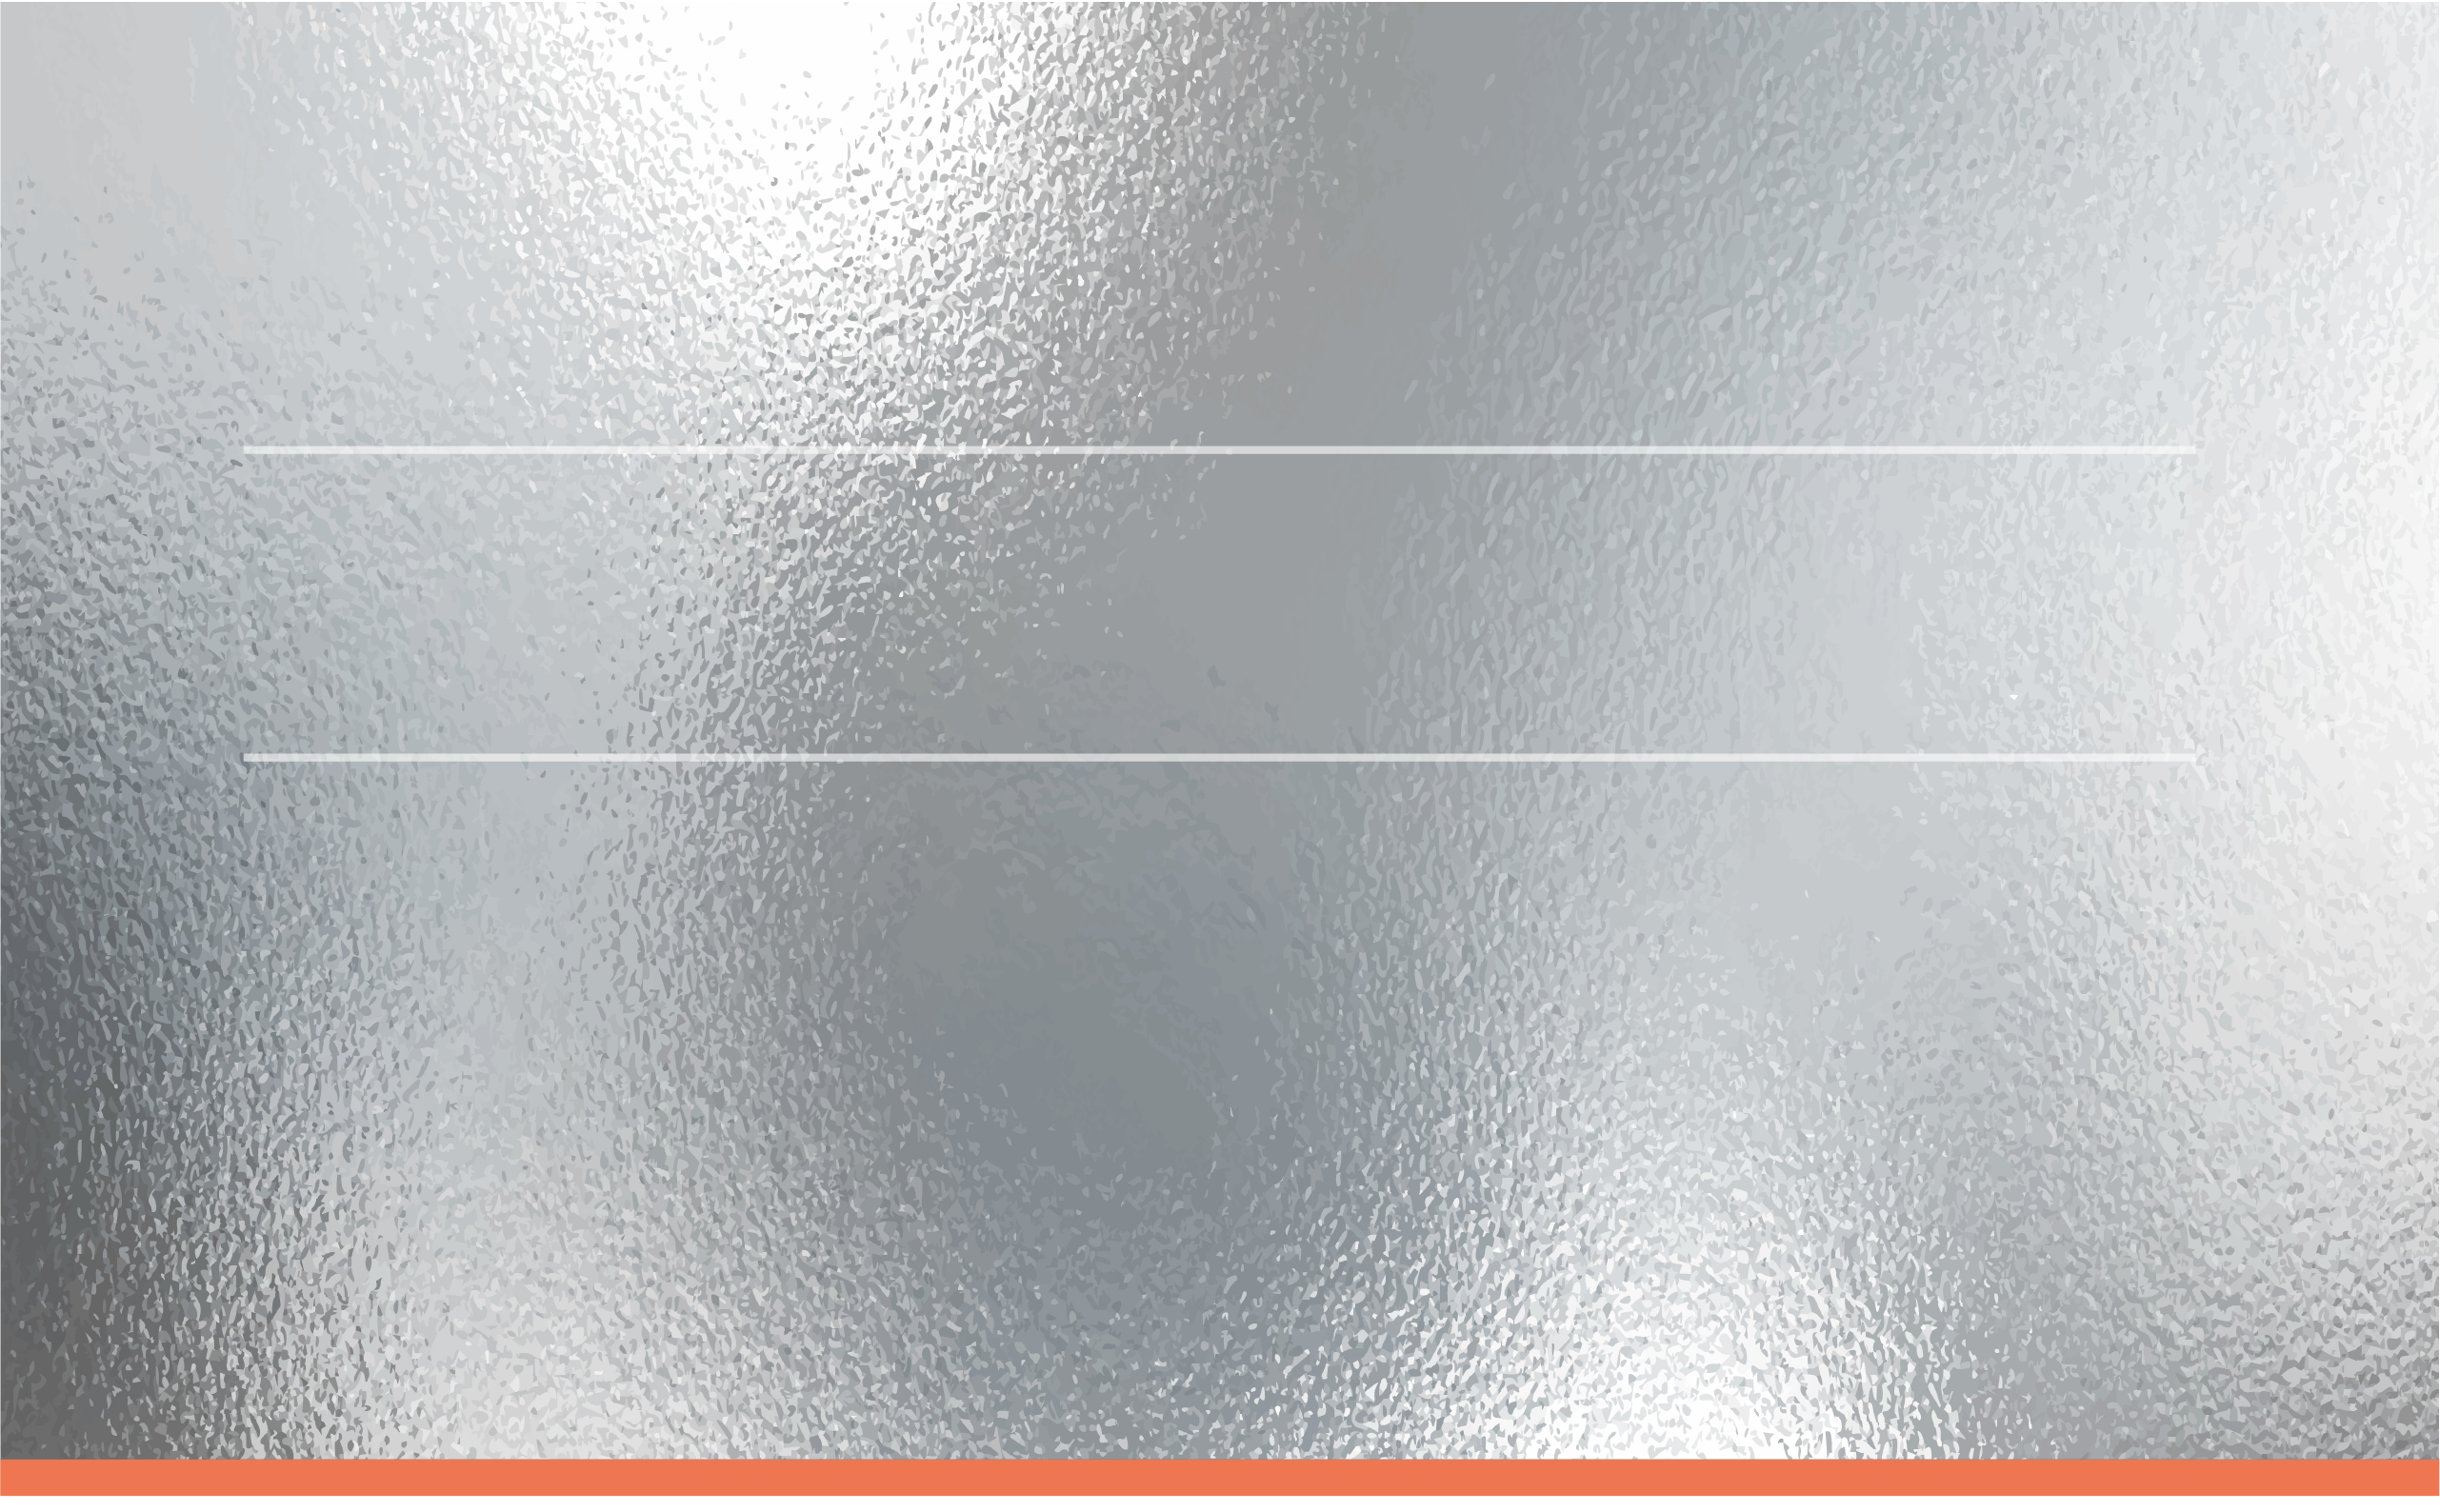
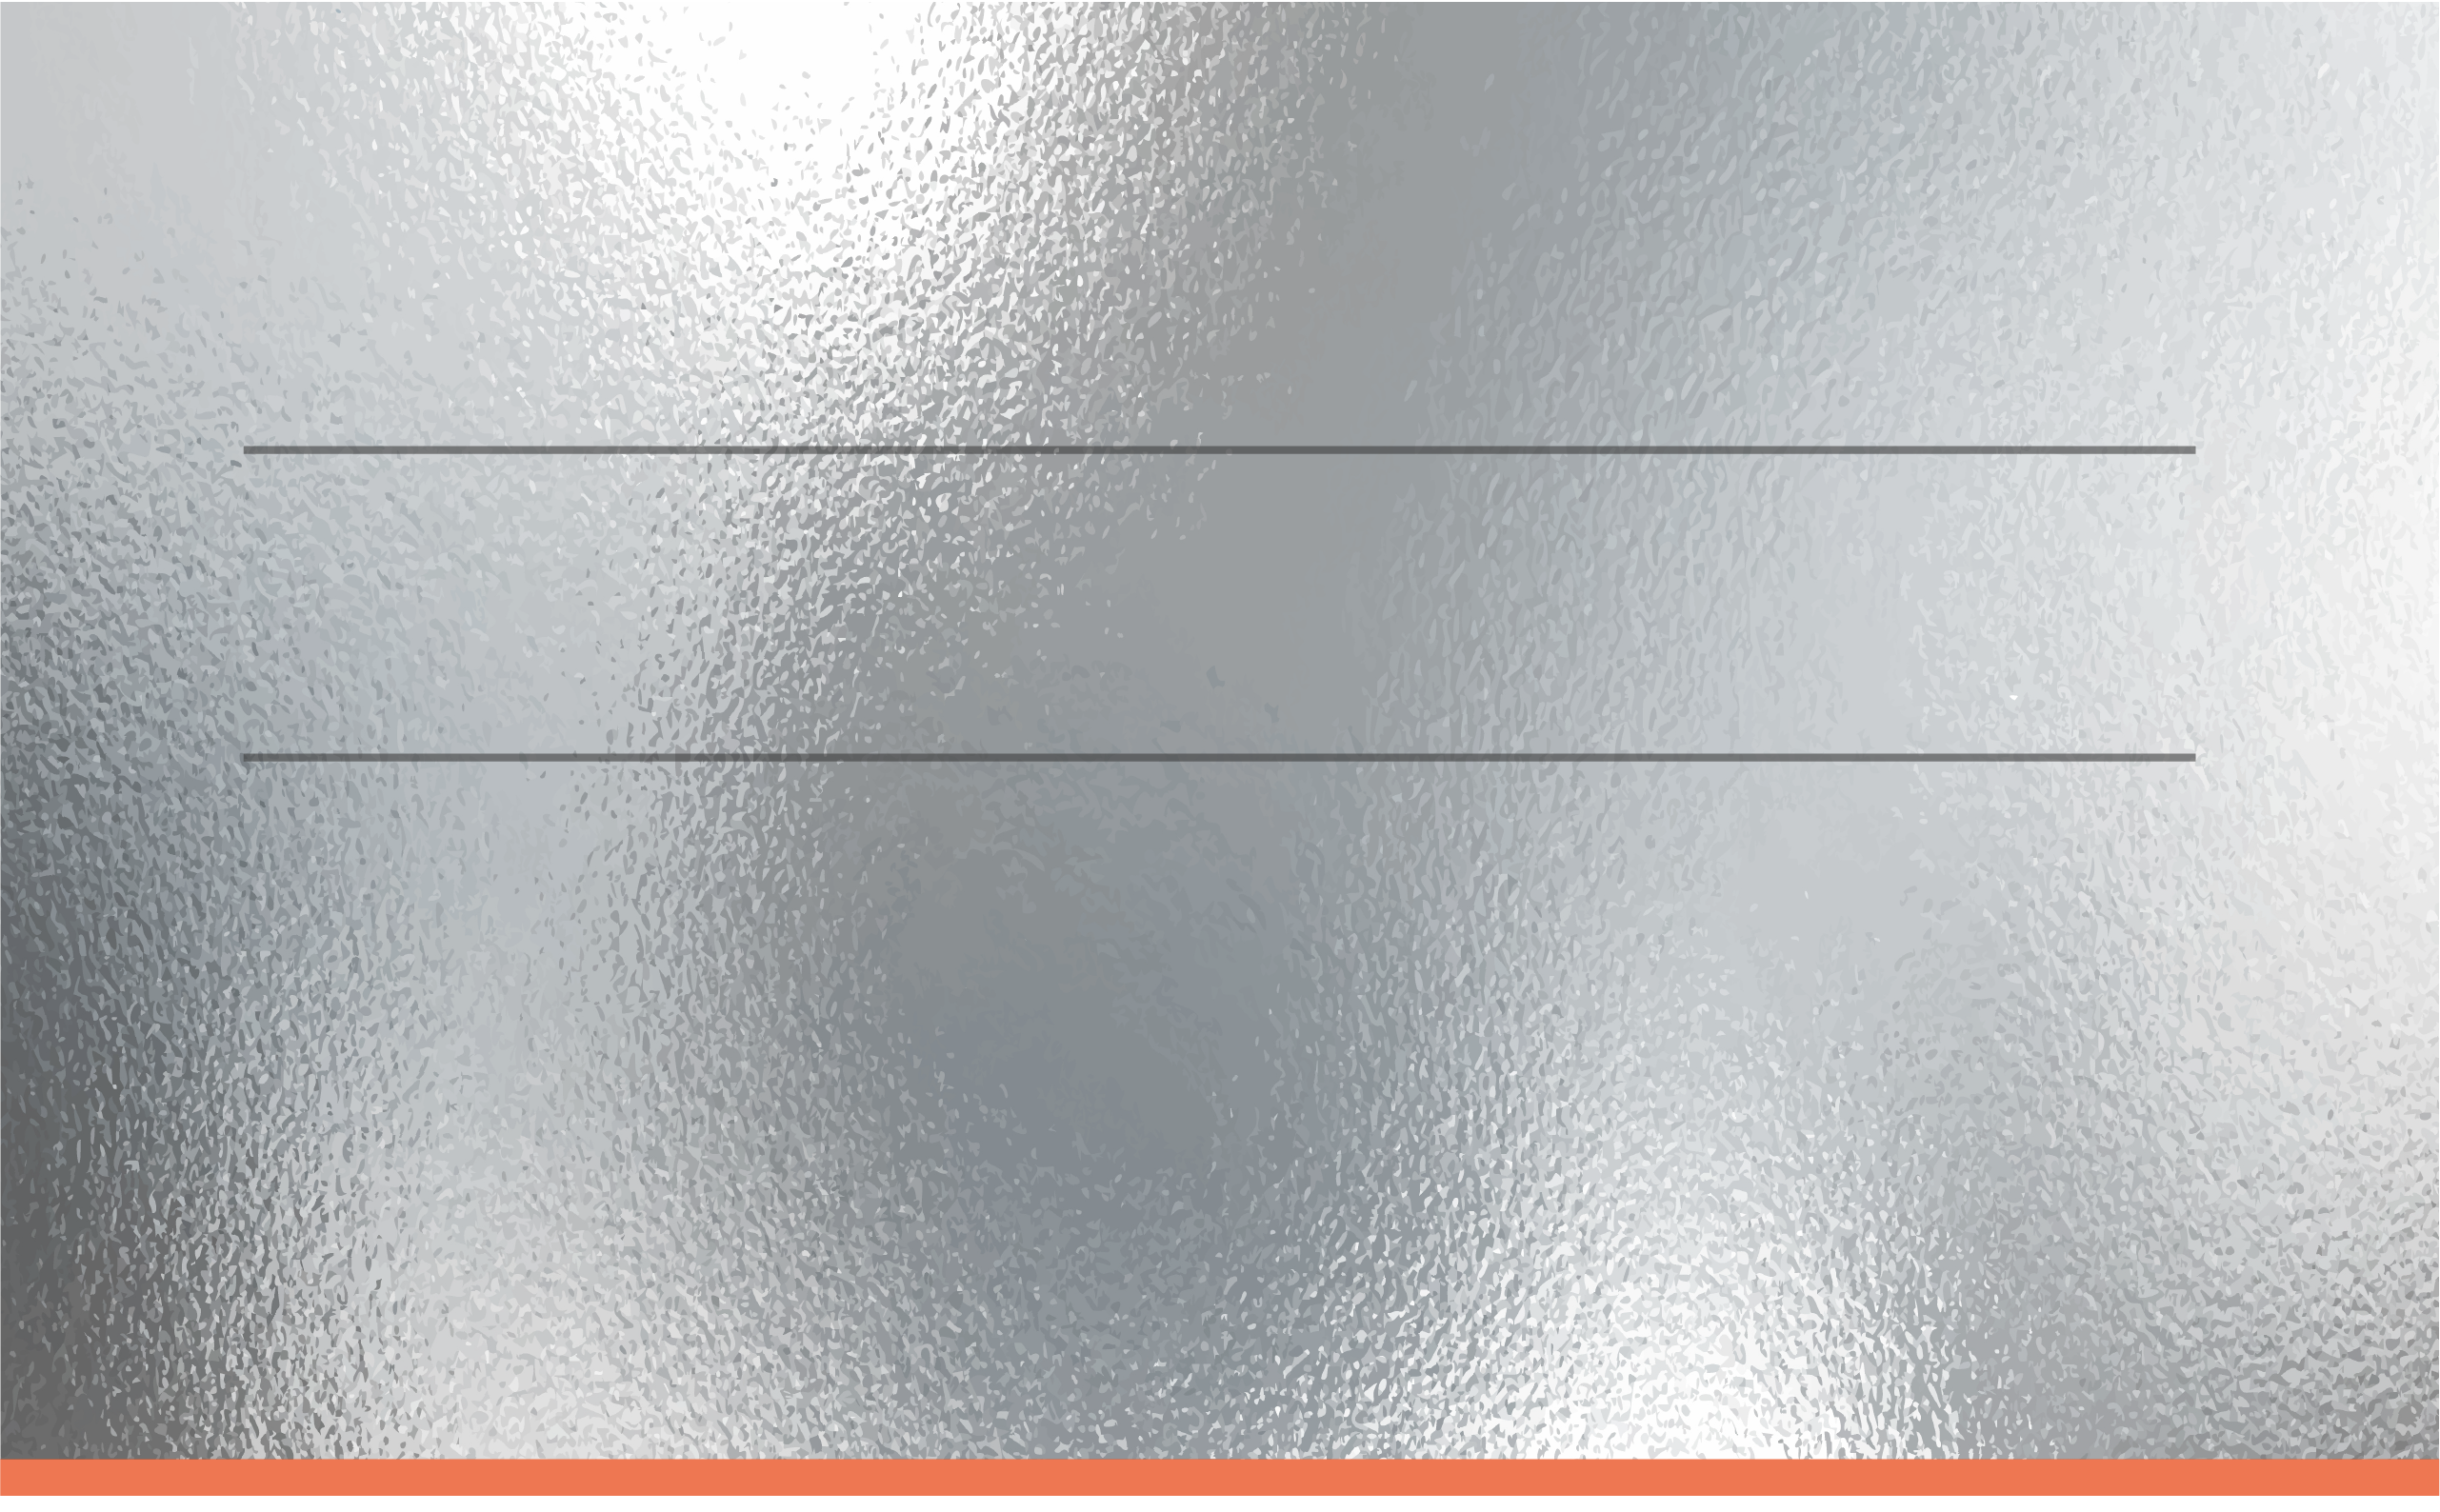
수정2

diff --git a/storage.css b/storage.css
@@ -270,3 +270,118 @@ body {
     transform: translateY(0);
   }
 }
+/* 카드가 해체되기 직전 */
+.card-inner.breaking {
+  animation: breakPackage 0.35s ease;
+}
+
+@keyframes breakPackage {
+  0% {
+    transform: scale(1) rotate(0deg);
+    filter: blur(0);
+  }
+
+  20% {
+    transform: translateX(-2px) rotate(-1deg);
+  }
+
+  40% {
+    transform: translateX(2px) rotate(1deg);
+  }
+
+  60% {
+    transform: scale(0.97);
+    filter: blur(1px);
+  }
+
+  100% {
+    transform: scale(1);
+    filter: blur(0);
+  }
+}
+
+/* 포장 파편 */
+.card-front::after {
+  content: "";
+  position: absolute;
+  inset: 0;
+  pointer-events: none;
+  opacity: 0;
+}
+
+.card-inner.breaking .card-front::after {
+  animation: packageDust 0.4s ease forwards;
+}
+
+@keyframes packageDust {
+  0% {
+    opacity: 0;
+    transform: scale(1);
+  }
+
+  30% {
+    opacity: 0.8;
+    transform: scale(1.02);
+  }
+
+  100% {
+    opacity: 0;
+    transform: scale(1.08);
+  }
+}
+.card-inner.breaking {
+  animation: breakPackage 0.45s cubic-bezier(0.2, 0.9, 0.2, 1);
+}
+
+@keyframes breakPackage {
+  0% {
+    transform: scale(1) rotate(0deg);
+    filter: blur(0);
+  }
+
+  10% {
+    transform: translate(-8px, 4px) rotate(-4deg);
+  }
+
+  20% {
+    transform: translate(8px, -4px) rotate(4deg);
+  }
+
+  35% {
+    transform: translate(-6px, 2px) rotate(-3deg);
+  }
+
+  55% {
+    transform: scale(0.9);
+    filter: blur(3px);
+  }
+
+  100% {
+    transform: scale(1);
+    filter: blur(0);
+  }
+}
+.card-front::before {
+  content: "";
+  position: absolute;
+  inset: 0;
+  background: white;
+  opacity: 0;
+  pointer-events: none;
+}
+
+.card-inner.breaking .card-front::before {
+  animation: flash 0.18s;
+}
+
+@keyframes flash {
+  0% {
+    opacity: 0;
+  }
+  50% {
+    opacity: 0.9;
+  }
+  100% {
+    opacity: 0;
+  }
+}

diff --git a/storage.js b/storage.js
@@ -178,9 +178,21 @@ function openBox(box, item) {
     card.classList.add("drop");
     front.style.backgroundImage = `url(${cardFrontImages[item.style]})`;
     back.style.backgroundImage = 'url("images/card2.png")';
-    text.innerHTML = item.text.replace(/\n/g, "<br>");
+    if (item.style === "진공팩") {
+      text.style.color = "#000000"; // 앞면(포장된 문장)
+    } else {
+      text.style.color = "#482c23"; // 기본 색
+    }
+    if (item.style === "보자기") {
+      text.style.color = "#fefefe"; // 앞면(포장된 문장)
+    } else {
+      text.style.color = "#482c23"; // 기본 색
+    }
+    text.innerHTML = (item.text || "")
+      .replace(/^["'“”‘’]|["'“”‘’]$/g, "")
+      .replace(/\n/g, "<br>");
 
-    original.innerHTML = item.original.replace(/\n/g, "<br>");
+    original.innerHTML = (item.original || "").replace(/\n/g, "<br>");
 
     modal.dataset.currentId = item.id;
   }, 500);
@@ -193,11 +205,21 @@ function openBox(box, item) {
 function flipCard() {
   const card = document.getElementById("cardInner");
 
-  if (card) {
-    card.classList.toggle("flip");
+  if (!card) return;
+
+  // 앞면 → 뒷면
+  if (!card.classList.contains("flip")) {
+    card.classList.add("breaking");
+
+    setTimeout(() => {
+      card.classList.add("flip");
+      card.classList.remove("breaking");
+    }, 320);
+  } else {
+    // 다시 앞면
+    card.classList.remove("flip");
   }
 }
-
 /* =========================
    모달 닫기
 ========================= */

diff --git a/script.js b/script.js
@@ -1,4 +1,5 @@
-// =========================
+const paperSound = document.getElementById("paperSound");
+fetch("https://package33.onrender.com/ping").catch(() => {}); // =========================
 // 🔥 프레임 설정
 // =========================
 const rolls = {
@@ -135,9 +136,13 @@ Object.keys(rolls).forEach((key) => {
   // hover
   el.addEventListener("mouseenter", () => {
     if (currentSelected === key) return;
+
+    paperSound.currentTime = 0;
+    paperSound.volume = 0.5;
+    paperSound.play().catch(() => {});
+
     playForward(key);
   });
-
   el.addEventListener("mouseleave", () => {
     if (currentSelected === key) return;
     playReverse(key);
@@ -273,10 +278,19 @@ async function convert() {
       limitedResult = limitedResult.replace(/^["'“”‘’]|["'“”‘’]$/g, "");
 
       resultEl.innerText = limitedResult;
+      resultEl.style.fontWeight = "500";
       if (currentSelected === "bojagi") {
         resultEl.style.color = "#ffffff";
+        btnEl.style.background = "#5544ea"; // 파란색
+        btnEl.style.color = "#ffffff";
+      } else if (currentSelected === "vacuum") {
+        resultEl.style.color = "#4e4e4e";
+        btnEl.style.background = "#616161"; // 검은색
+        btnEl.style.color = "#ffffff";
       } else {
-        resultEl.style.color = "#5b2506"; // 기본 색
+        resultEl.style.color = "#5b2506";
+        btnEl.style.background = "#ff5811"; // 기본 주황색
+        btnEl.style.color = "#ffffff";
       }
       const saved = JSON.parse(localStorage.getItem("texts")) || [];
 

diff --git a/opening.js b/opening.js
@@ -1,4 +1,6 @@
-/* ─── DOM 요소 참조 ─── */
+const typingSound = document.getElementById("typingSound");
+const clickSound =
+  document.getElementById("clickSound"); /* ─── DOM 요소 참조 ─── */
 const reBtn = document.getElementById("re-btn");
 const typedText = document.getElementById("typed-text");
 const reTooltip = document.getElementById("re-tooltip");
@@ -136,7 +138,12 @@ function runStep(idx) {
       shakePkg(s.shakeIdx);
     }, 800);
   }
-
+  if (s.isLast) {
+    typingSound.currentTime = 0;
+    typingSound.volume = 0.8;
+    typingSound.playbackRate = 2; // 10% 빠르게
+    typingSound.play().catch(() => {});
+  }
   typeText(
     s.text,
     () => {
@@ -193,6 +200,12 @@ function runStep(idx) {
 if (reBtn) {
   reBtn.addEventListener("click", () => {
     if (typing || step >= STEPS.length - 1) return;
+
+    // 마지막 문장으로 넘어가는 클릭은 소리 재생 안 함
+    if (step < STEPS.length - 2) {
+      clickSound.currentTime = 0;
+      clickSound.play();
+    }
 
     step++;
 

diff --git a/opening.html b/opening.html
@@ -6,7 +6,15 @@
     <title>RE:TONE Opening</title>
     <link rel="stylesheet" href="opening.css" />
   </head>
+
   <body>
+    <audio id="clickSound" preload="auto">
+      <source src="sounds/click.mp3" type="audio/mpeg" />
+    </audio>
+
+    <audio id="typingSound" preload="auto">
+      <source src="sounds/typing.mp3" type="audio/mpeg" />
+    </audio>
     <!-- 상단 패키지 -->
     <div class="packages">
       <div class="pkg"><img src="images/bubble.png" alt="에어캡" /></div>

diff --git a/common.css b/common.css
@@ -20,7 +20,7 @@
 .menu {
   display: flex;
   gap: 0.55vw;
-  background: rgba(225, 80, 47, 0.8);
+  background: rgba(188, 43, 11, 0.8);
   padding: 0.45vw;
   border-radius: 999px;
   list-style: none;
@@ -38,7 +38,7 @@
 
 /* 🔥 hover */
 .menu li:hover {
-  background: rgba(0, 0, 0, 0.05);
+  background: rgba(0, 0, 0, 0.1);
 }
 
 /* 🔥 active */

diff --git a/style.css b/style.css
@@ -35,7 +35,7 @@ body {
 #input-text,
 #result-text {
   position: absolute;
-  top: 14%;
+  top: 12%;
   left: 10%;
   width: 80%;
   height: 40%;
@@ -302,7 +302,7 @@ button:hover {
 
 .card-wrap {
   width: 26vw;
-  height: 17.3vw;
+  height: 15.3vw;
   aspect-ratio: 3 / 2;
   position: fixed;
   left: 50%;

diff --git a/index.html b/index.html
@@ -21,6 +21,9 @@
   </head>
 
   <body>
+    <audio id="paperSound" preload="auto">
+      <source src="sounds/paper.mp3" type="audio/mpeg" />
+    </audio>
     <div class="navbar">
       <a href="opening.html" class="logo">RE:TONE</a>
 